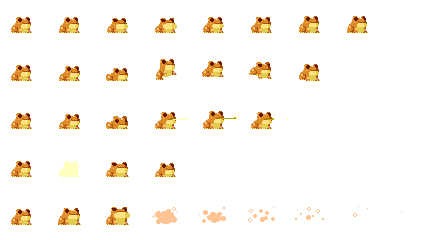
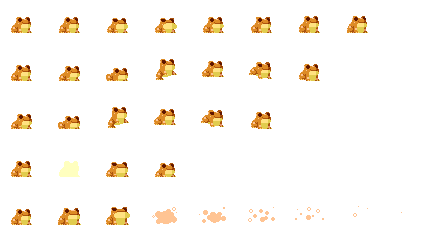
Altered BardFrogs animation + added HOP state for Frogs

diff --git a/core/src/main/java/org/toadallyarmed/factory/FrogFactory.java b/core/src/main/java/org/toadallyarmed/factory/FrogFactory.java
@@ -138,6 +138,7 @@ public class FrogFactory implements Disposable {
         StateMachine<FrogState> generalStateMachine = new StateMachine<>(FrogState.IDLE);
         generalStateMachine.addState(FrogState.IDLE, FrogState.IDLE);
         generalStateMachine.addState(FrogState.ACTION, FrogState.IDLE);
+        generalStateMachine.addState(FrogState.HOP, FrogState.IDLE);
         generalStateMachine.addState(FrogState.DYING, FrogState.NONEXISTENT, entity.getMarkForRemovalRunnable());
         generalStateMachine.addState(FrogState.NONEXISTENT, FrogState.NONEXISTENT);
         AliveEntityStateComponent<FrogState> state = new AliveEntityStateComponent<>(generalStateMachine);
@@ -157,6 +158,7 @@ public class FrogFactory implements Disposable {
         Map<FrogState, AnimatedSprite> animatedSprites = new HashMap<>();
 
         animatedSprites.put(FrogState.IDLE, animationFactory.Animation(texture, 0, 0, 7));
+        animatedSprites.put(FrogState.HOP, animationFactory.Animation(texture, 1, 0, 6));
         animatedSprites.put(FrogState.ACTION, animationFactory.Animation(texture, 2, 0, 5));
         animatedSprites.put(FrogState.DYING, animationFactory.Animation(texture, 4, 0, 8));
         animatedSprites.put(FrogState.NONEXISTENT, AnimatedSprite.empty());

diff --git a/core/src/main/java/org/toadallyarmed/component/action/payload/BardActionPayload.java b/core/src/main/java/org/toadallyarmed/component/action/payload/BardActionPayload.java
@@ -1,15 +1,19 @@
 package org.toadallyarmed.component.action.payload;
 
+import com.badlogic.gdx.math.Vector2;
 import org.toadallyarmed.component.WalletComponent;
+import org.toadallyarmed.component.interfaces.TransformComponent;
 import org.toadallyarmed.util.action.PayloadExtractor;
 
 import java.util.Optional;
 
 public record BardActionPayload(
+    Vector2 pos,
     WalletComponent walletComponent,
     int bardIncomeDelta
 ) {
     public static final PayloadExtractor<BardActionPayload, BasicActionPayload> EXTRACTOR = rawPayload -> Optional.of(new BardActionPayload(
+        rawPayload.entity().get(TransformComponent.class),
         rawPayload.gameState().getWallet(),
         rawPayload.gameState().getGameConfig().moneyFrog().damage()
     ));

diff --git a/core/src/main/java/org/toadallyarmed/component/action/BardAction.java b/core/src/main/java/org/toadallyarmed/component/action/BardAction.java
@@ -1,7 +1,9 @@
 package org.toadallyarmed.component.action;
 
+import com.badlogic.gdx.math.Vector2;
 import org.toadallyarmed.component.action.payload.BardActionPayload;
 import org.toadallyarmed.component.action.payload.BasicActionPayload;
+import org.toadallyarmed.component.interfaces.TransformComponent;
 import org.toadallyarmed.util.action.Action;
 import org.toadallyarmed.util.action.PayloadExtractor;
 
@@ -13,6 +15,7 @@ public class BardAction implements Action<BardActionPayload, BasicActionPayload>
             payload.walletComponent()
                 .access()
                 .addAndGet(payload.bardIncomeDelta());
+
         }
         firstTime = false;
     }

diff --git a/core/src/main/java/org/toadallyarmed/state/FrogState.java b/core/src/main/java/org/toadallyarmed/state/FrogState.java
@@ -4,5 +4,6 @@ public enum FrogState {
     IDLE,
     ACTION,
     DYING,
+    HOP,
     NONEXISTENT,
 }

diff --git a/core/src/main/java/org/toadallyarmed/component/frog/FrogType.java b/core/src/main/java/org/toadallyarmed/component/frog/FrogType.java
@@ -5,5 +5,6 @@ public enum FrogType {
     BARD,
     KNIGHT,
     TANK,
+    BASIC,
     NONE
 }
